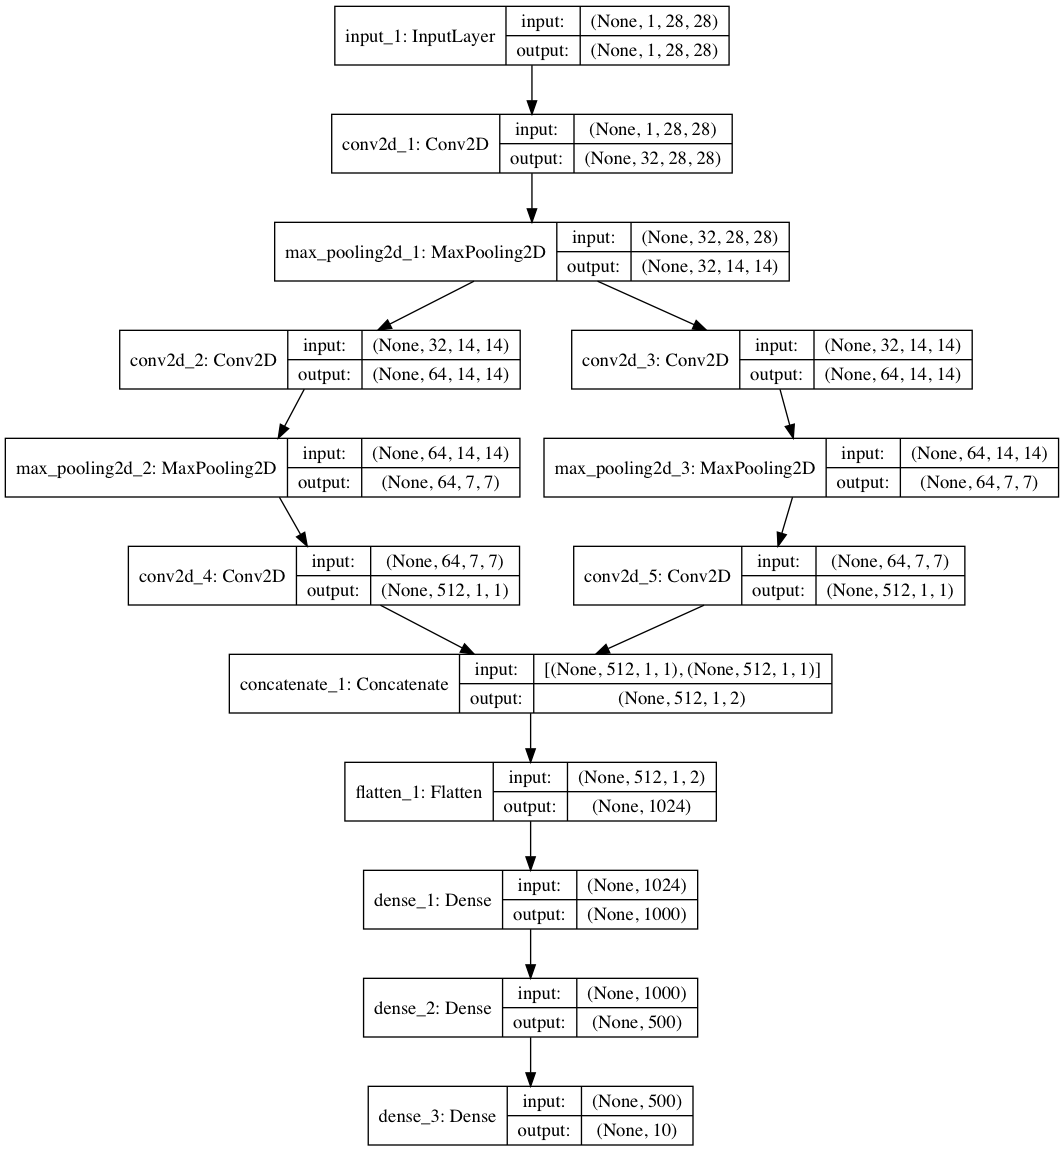
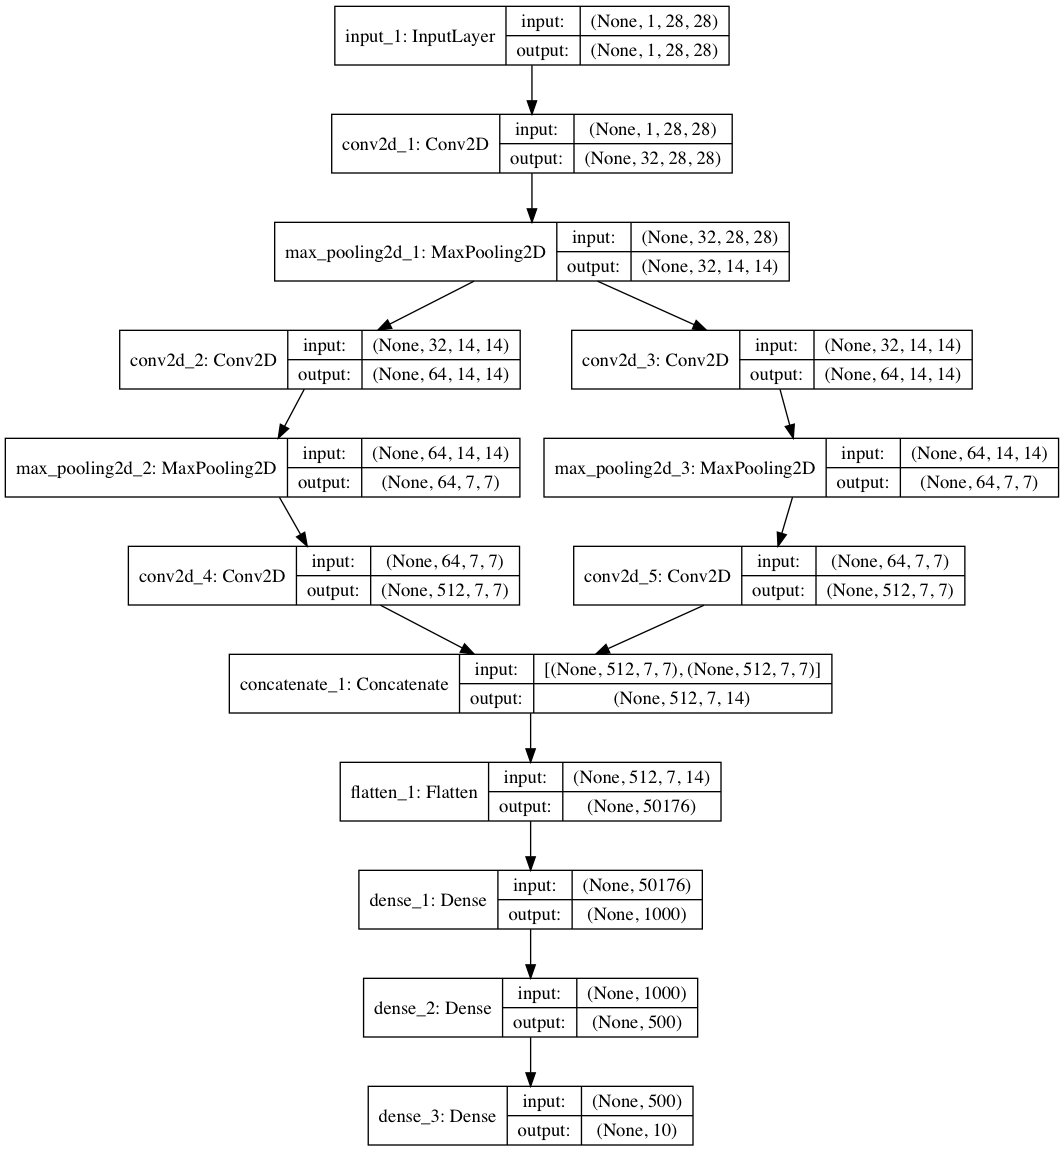
Updated model image

Changed region(s): [[0.3102, 0.669, 0.6823, 0.7298], [0.3412, 0.7602, 0.6823, 0.821], [0.5893, 0.5778, 0.6513, 0.6082]]

diff --git a/MNIST_Network.py b/MNIST_Network.py
@@ -36,8 +36,8 @@ def neural_network():
 	conv2_2 = Conv2D(64, (3, 3), activation='relu', padding='same')(conv1_pooling)
 	conv2_2_pooling = MaxPooling2D(pool_size=(2, 2))(conv2_2)
 
-	conv3_1 = Conv2D(512, (7, 7), activation='relu')(conv2_1_pooling)
-	conv3_2 = Conv2D(512, (7, 7), activation='relu')(conv2_2_pooling)
+	conv3_1 = Conv2D(512, (3, 3), activation='relu', padding='same')(conv2_1_pooling)
+	conv3_2 = Conv2D(512, (3, 3), activation='relu', padding='same')(conv2_2_pooling)
 	# Combine layer conv3_1 and conv3_2 to form conv3.
 	conv3 = concatenate([conv3_1, conv3_2])
 
@@ -79,7 +79,7 @@ def main(epc, batch, model_name):
 
 	# Load model and save the visualization of the model.
 	model = neural_network()
-	#plot_model(model, to_file='model_plot.png', show_shapes=True, show_layer_names=True)
+	plot_model(model, to_file='model_plot.png', show_shapes=True, show_layer_names=True)
 
 	# Train the model using training set.
 	model.fit(train_data, train_labels, validation_data=(test_data, test_labels), epochs=epc, batch_size=batch, verbose=1)
